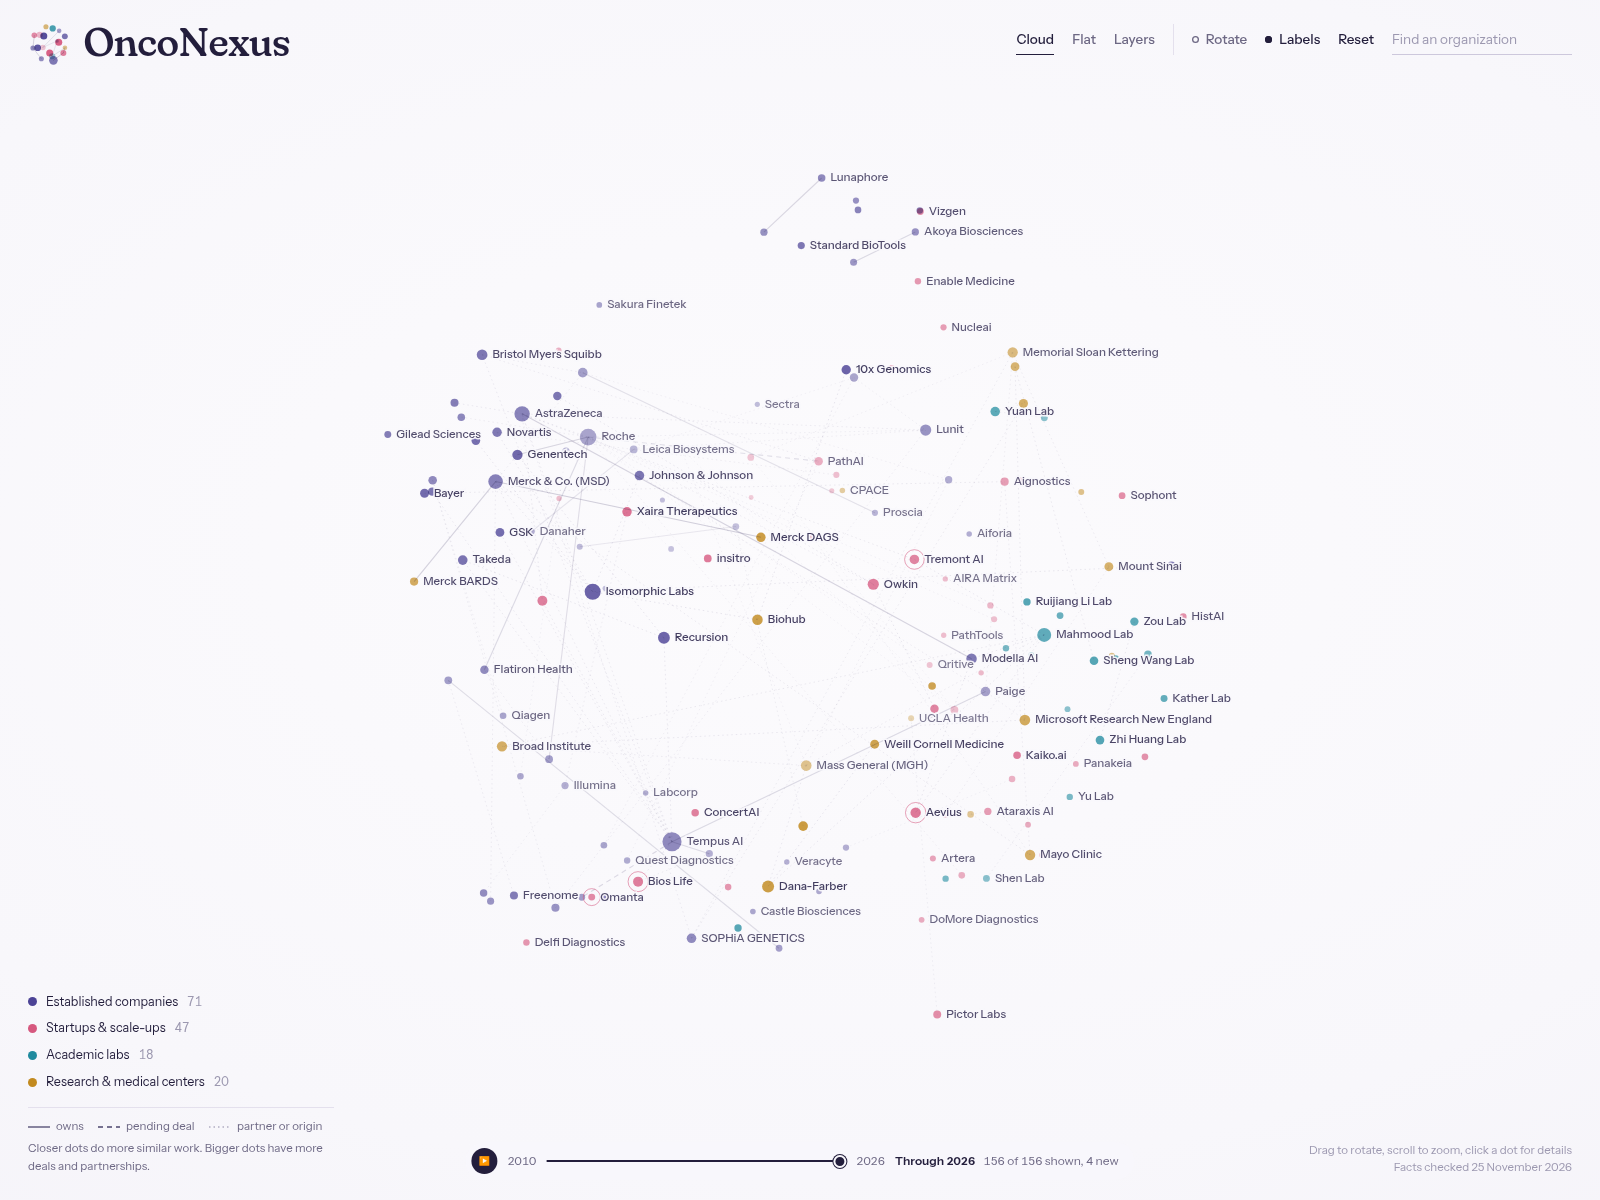
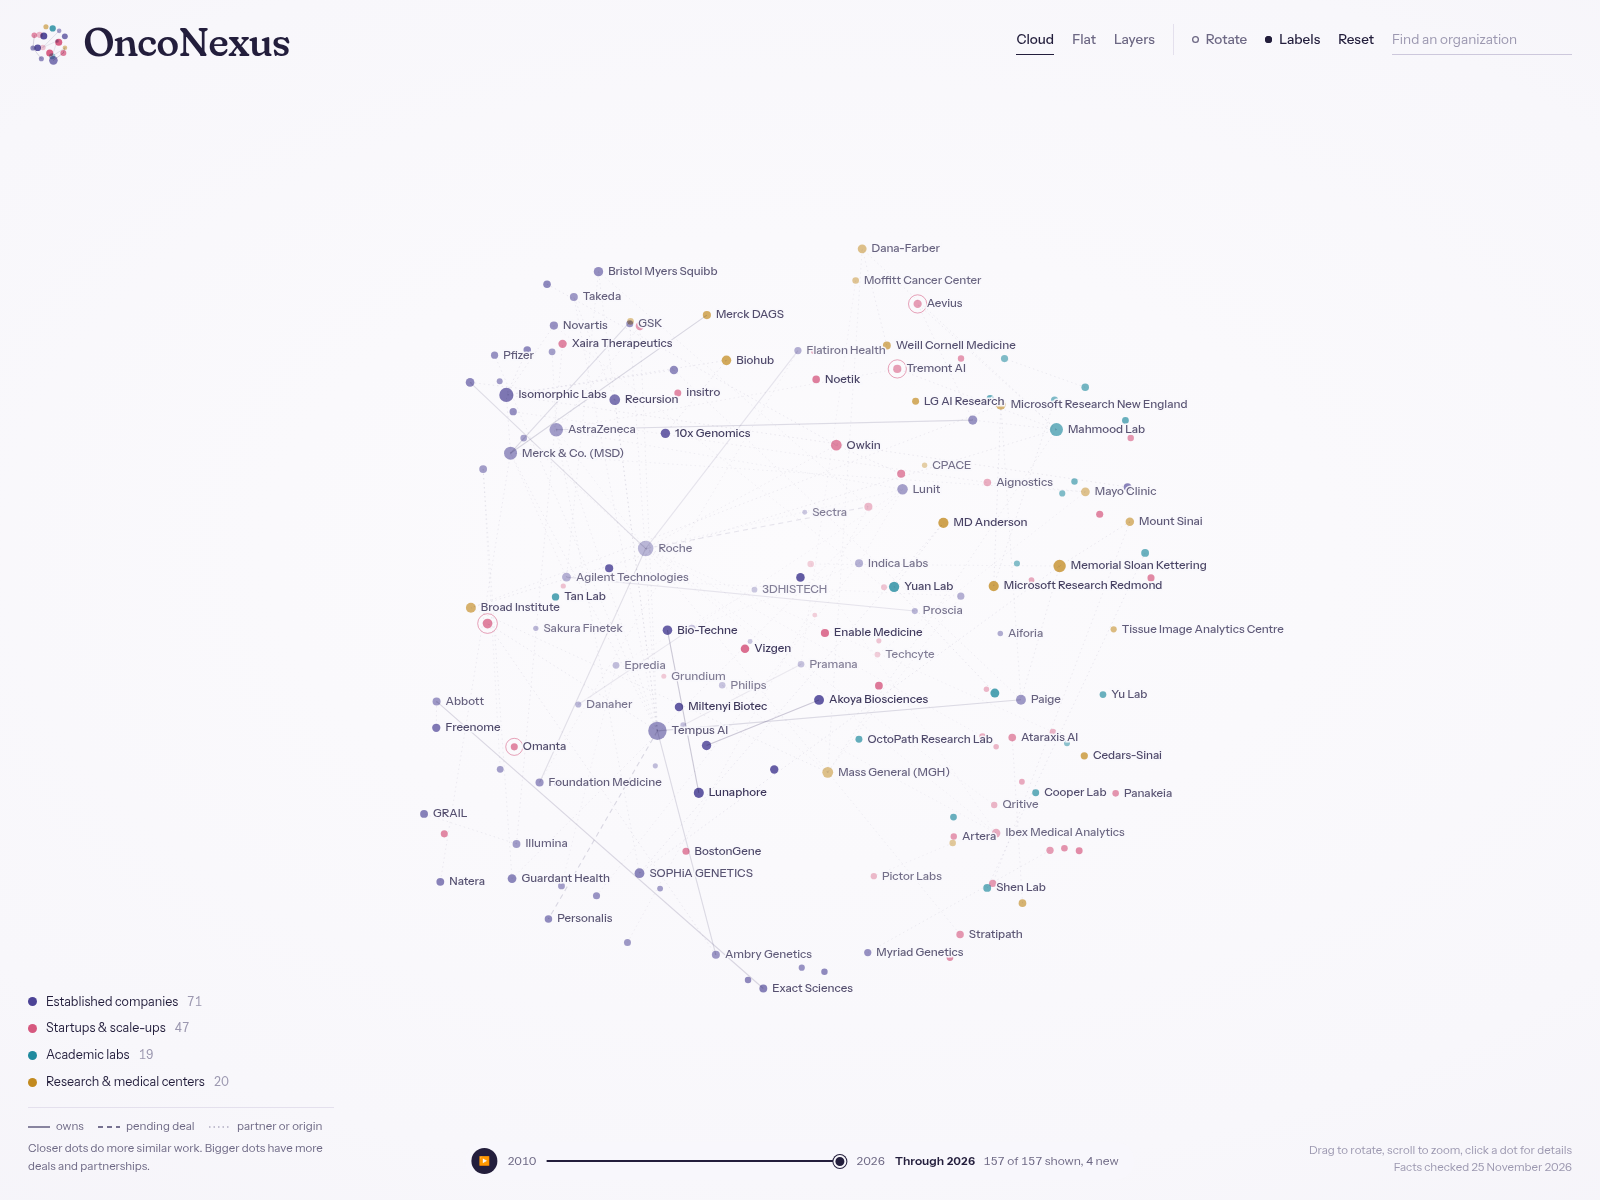
Add UC Irvine OctoPath Research Lab to OncoNexus

diff --git a/onconexus/index.html b/onconexus/index.html
@@ -305,6 +305,7 @@ const C = [
  ["danaher","Danaher","company","Washington, DC, US","Public","Life-science and diagnostics group; owns Leica Biosystems.","https://www.danaher.com","histo seq scan"],
 
  // ----- Labs & research centers
+ ["octopathlab","OctoPath Research Lab","lab","UC Irvine, California, US","Academic lab","Jana Lipkova's group at UC Irvine, in Pathology and Biomedical Engineering. Develops AI methods that combine histology, radiology, omics and clinical information to study diagnosis, prognosis, biomarkers and treatment response.","https://octopath.org/","wsi multi omics prog"],
  ["mahmood","Mahmood Lab","lab","Harvard · Mass General Brigham","Academic lab","Faisal Mahmood's group at Mass General Brigham and Harvard: the UNI and CONCH foundation models and the PathChat copilot research; a major source of open pathology tooling.","https://faisal.ai","fm vlm open wsi multi"],
  ["msr","Microsoft Research Redmond","center","Redmond, Washington, US","Corporate research","Microsoft's research lab at its Redmond, Washington headquarters. With Providence and the University of Washington it built the Prov-GigaPath whole-slide foundation model (Nature, 2024) and GigaTIME, which predicts spatial protein patterns from H&E slides to model the tumor microenvironment (Cell, published December 2025).","https://www.microsoft.com/en-us/research/","fm wsi mplex tme"],
  ["msrne","Microsoft Research New England","center","Cambridge, Massachusetts, US","Corporate research","Microsoft's research lab in Cambridge, Massachusetts. Its researchers co-developed the Virchow foundation model (Nature Medicine, 2024) and the PRISM slide-level models with Paige, and its Biomedical ML group works with the Broad Institute on Project Ex Vivo. Both Microsoft labs feed Quine, the multimodal model of biology introduced in 2026.","https://www.microsoft.com/en-us/research/lab/microsoft-research-new-england/","fm wsi vlm multi"],
@@ -465,7 +466,7 @@ const LAYERS = [
   { key: "dp",   name: "Digital pathology platforms",   note: "Image management and workflow software that pathologists work in",
     ids: "proscia techcyte gestalt tribun pathpresenter sectra fujifilm deciphex" },
   { key: "ai",   name: "Pathology AI",                  note: "Foundation models, AI diagnosis and biomarkers read from the slide",
-    ids: "paige pathai bioptimus aignostics sophont tremont mahmood gevaert yu ai4path atlaslab swang haochen msr msrne lgai modella kaiko zhihuang zou rli cpace ibex deepbio primaa qritive aira pathtools radboud octopath lunit mindpeak visiopharm indica aiforia tia pictor artera ataraxis stratipath domore valar precisedx pathomiq 4dpath shen madabhushi cooper owkin imagene panakeia kather yuan pan nucleai google histai" },
+    ids: "paige pathai bioptimus aignostics sophont tremont mahmood octopathlab gevaert yu ai4path atlaslab swang haochen msr msrne lgai modella kaiko zhihuang zou rli cpace ibex deepbio primaa qritive aira pathtools radboud octopath lunit mindpeak visiopharm indica aiforia tia pictor artera ataraxis stratipath domore valar precisedx pathomiq 4dpath shen madabhushi cooper owkin imagene panakeia kather yuan pan nucleai google histai" },
   { key: "sp",   name: "Spatial biology",               note: "Multiplex imaging and spatial transcriptomics that add molecules to morphology",
     ids: "tenx vizgen bruker biotechne akoya quanterix lunaphore standardbio miltenyi ionpath enable" },
   { key: "gx",   name: "Genomics & liquid biopsy",      note: "Sequencing platforms, tumor profiling, MRD monitoring and blood-based screening",
